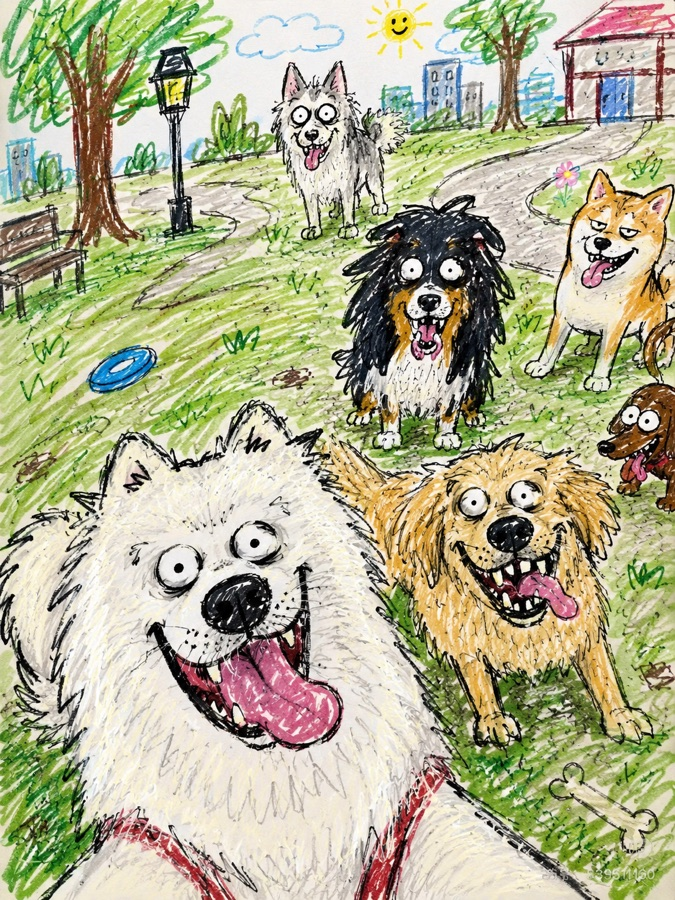
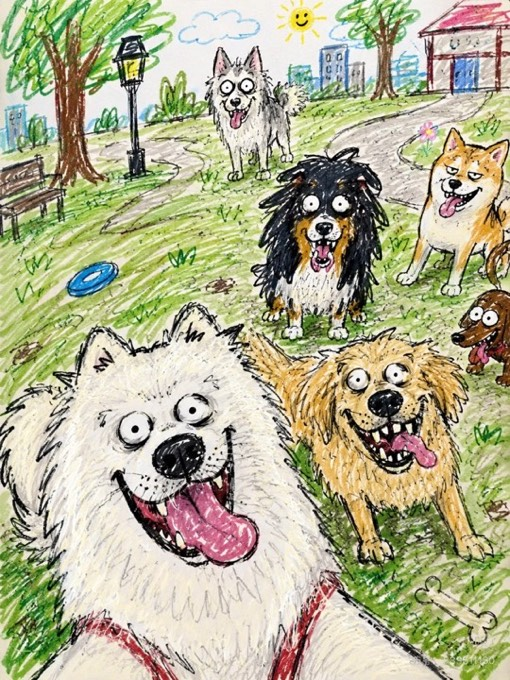
压缩图片资源并关闭论文查重

diff --git a/pages/membership/membership.js b/pages/membership/membership.js
@@ -49,7 +49,7 @@ Page({
         name: '年度套餐',
         badge: '超值推荐',
         badgeClass: 'badge-purple',
-        price: '399',
+        price: '389',
         period: '年',
         points: 7200,
         desc: '适合长期创作者和商家'